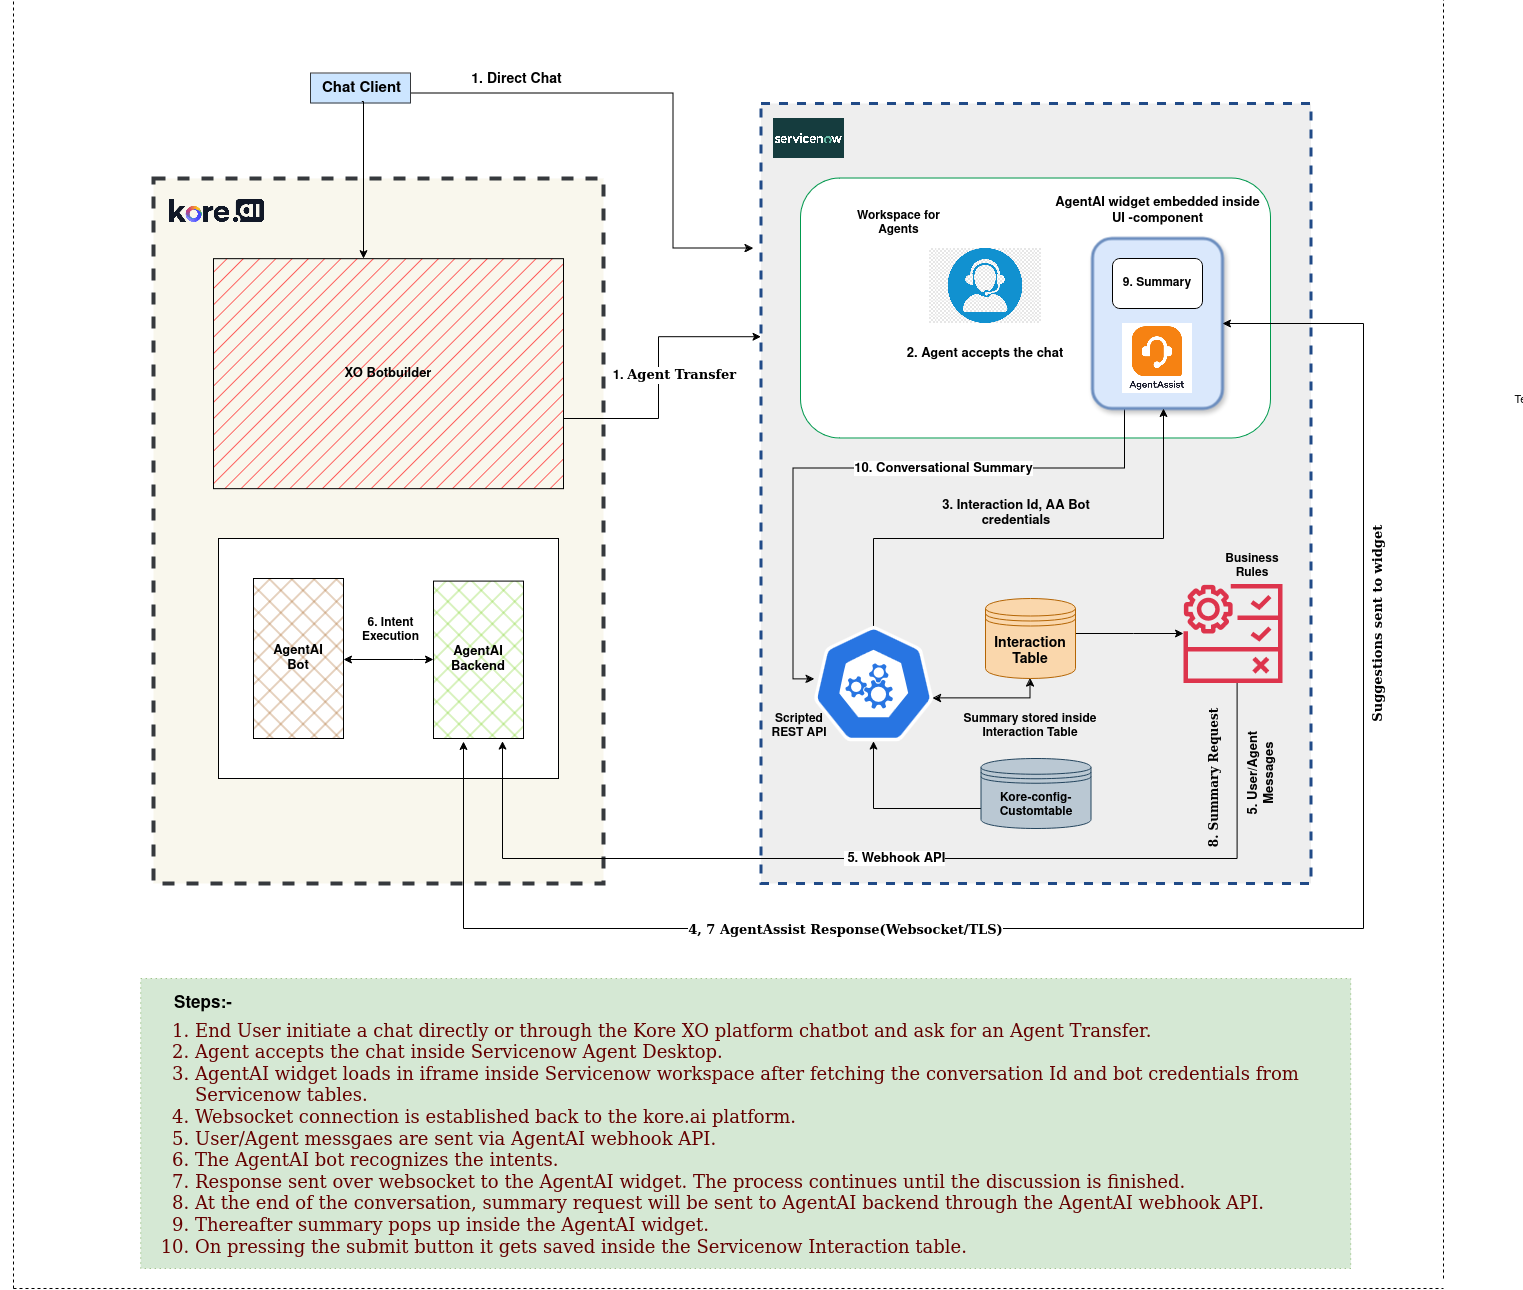
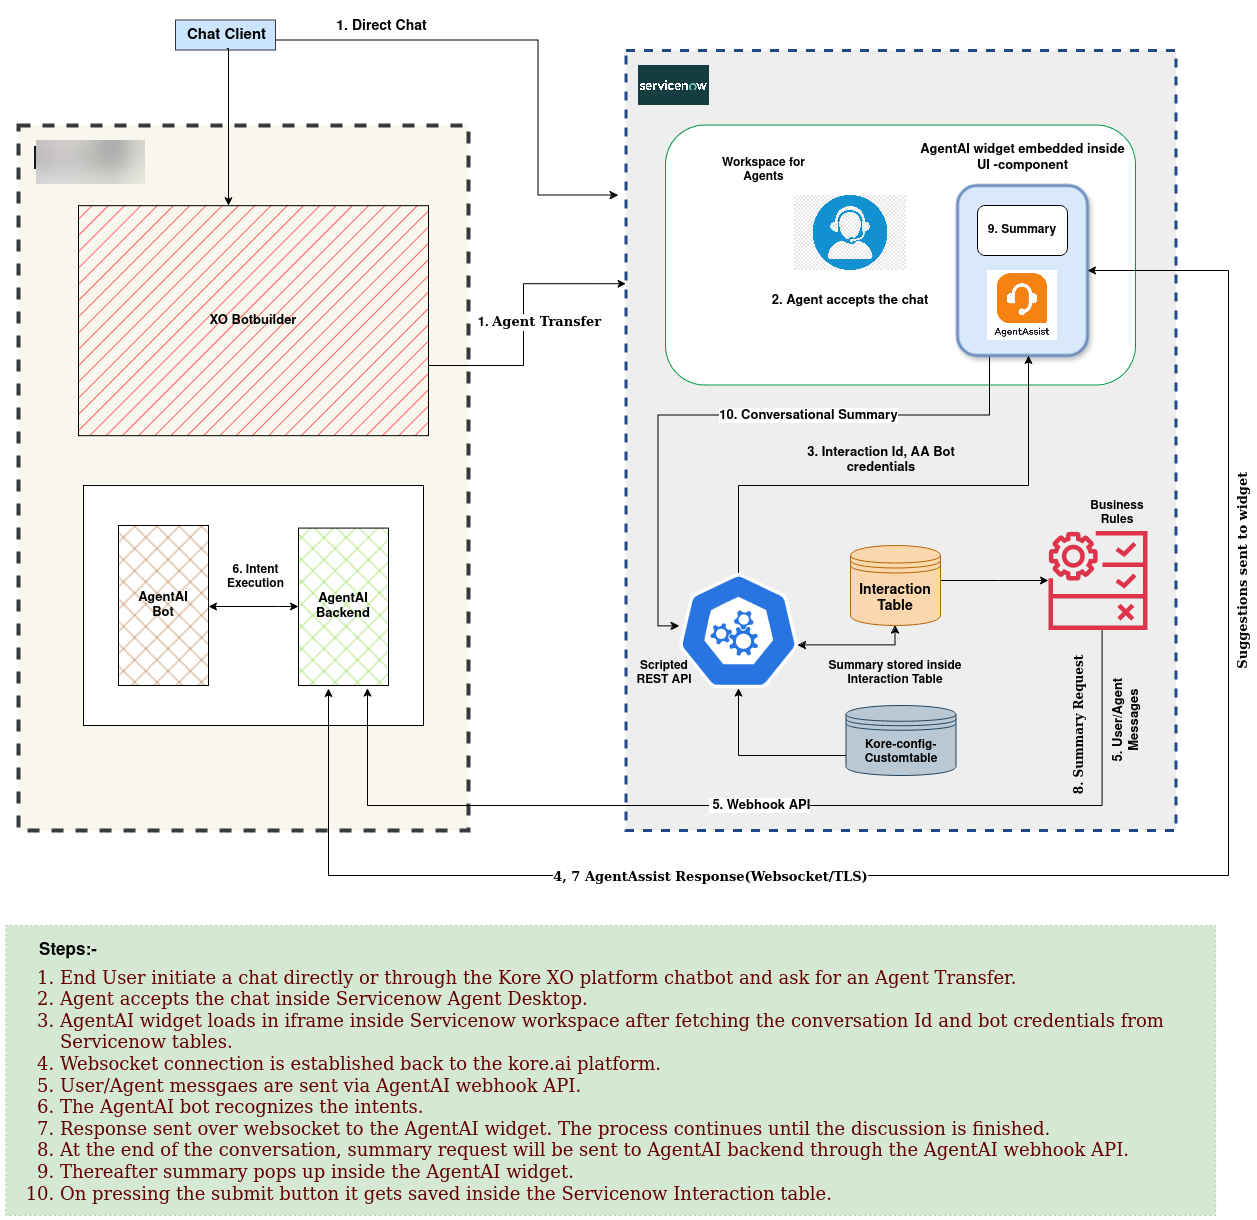
image updates and Kore instances removal

diff --git a/docs/xo/agentai/integration/servicenow/chat-integration-with-servicenow.md b/docs/xo/agentai/integration/servicenow/chat-integration-with-servicenow.md
@@ -1,6 +1,6 @@
 # Agent AI Chat Integration with ServiceNow
 
-This document provides detailed instructions on integrating the Kore.ai Agent AI widget with ServiceNow Desktop for the Chat channel. The integration supports [all features of Agent AI](./../../agent-experience/agent-assist-widget-v3.md){:target=”_blank”}. It also includes an end-of-call summary and Custom Data passing, such as agent name and ID, to the Agent AI widget.
+This document provides detailed instructions on integrating the Agent AI widget with ServiceNow Desktop for the Chat channel. The integration supports [all features of Agent AI](./../../agent-experience/agent-assist-widget-v3.md){:target=”_blank”}. It also includes an end-of-call summary and Custom Data passing, such as agent name and ID, to the Agent AI widget.
 
 ## Prerequisites
 
@@ -15,25 +15,25 @@ This section outlines the essential components, credentials, and permissions req
         * Required AI Agent credentials: Bot ID, Client ID, Client Secret, and Widget URL (Credential Location: Go to **agent ai** > **Flows and Channels** > **Channels** > **Digital** > **Web/Mobile Client** > **JWT App Details**.)
 * Roles and Permissions:
     * ServiceNow: Admin Role
-    * Kore XO Platform (Optional): Required only if you are doing an Agent Transfer from Kore XO Platform to ServiceNow. For more information, refer to [Configuring the ServiceNow Agent – Utah and Higher versions](./../../../app-settings/integrations/agents/servicenow/configuring-the-servicenow-agent-utah-and-vancouver.md){:target=”_blank”}.
+    * XO Platform (Optional): Required only if you are doing an Agent Transfer from XO Platform to ServiceNow. For more information, refer to [Configuring the ServiceNow Agent – Utah and Higher versions](./../../../app-settings/integrations/agents/servicenow/configuring-the-servicenow-agent-utah-and-vancouver.md){:target=”_blank”}.
 
-## Interaction between ServiceNow and Kore.ai Agent AI
+## Interaction between ServiceNow and Agent AI
 
 The following architecture diagram shows the interaction between ServiceNow and Agent AI:
 
 <img src="../images/snow-kore.ai-architecture.png" alt="snow-kore.ai-architecture" title="snow-kore.ai-architecture" style="border: 1px solid gray; zoom:80%;">
 
-## Set Up Kore Agent AI in ServiceNow Sandbox
+## Set Up Agent AI in ServiceNow Sandbox
 
 Setting Up Agent AI chat with ServiceNow consists of the following steps:
 
-1. Set Up Kore Agent AI in ServiceNow Sandbox 
+1. Set Up Agent AI in ServiceNow Sandbox 
     * [Download from the ServiceNow Store (recommended)](#step-1-download-from-the-servicenow-store-recommended), 
     or
     * [Install Using an Update Set](#install-using-an-update-set)
 2. [Set Up Agent AI App Configuration](#step-2-set-up-agent-ai-application-configuration)
 3. [Test the Configuration](#step-3-test-the-integration)
-4. [Kore XO Configuration (Optional)](#step-4-kore-xo-configuration-optional)
+4. [XO Configuration (Optional)](#step-4-xo-configuration-optional)
 5. [Using the Agent AI widget](#step-5-using-the-agent-ai-widget)
 
 ### Step 1: Download from the ServiceNow Store (recommended)
@@ -47,15 +47,15 @@ Setting Up Agent AI chat with ServiceNow consists of the following steps:
 
 ### Install Using an Update Set
 
-1. Ask the Kore representative for the relevant Update Set XML file.
-2. Search in **All** > **filter** navigator as “Retrieved Update Sets,” which is under “System Update Sets”, and open it.
-3. Under **Related Links**, click **Import Update Set from XML**. 
+1. Ask the Support team for the relevant Update Set XML file.
+2. Search in **All** > **filter** navigator as **Retrieved Update Sets**, which is under **System Update Sets**, and open it.
+3. Under **Related Links**, click **Import Update Set from XML**.  
 <img src="../images/import-update-xml.png" alt="import-update-xml" title="import-update-xml" style="border: 1px solid gray; zoom:80%;">
 
-4. Open the update set **Agent AI by kore.ai** (this is the official name for Kore Agent AI).  
+4. Open the update set **Agent AI by kore.ai** (this is the official name for Agent AI).  
 #### Preview Update Set
 
-To preview the update set, click the **Preview Update Set** tab.
+To preview the update set, click the **Preview Update Set** tab.  
 <img src="../images/preview-update-set.png" alt="preview-update-set" title="preview-update-set" style="border: 1px solid gray; zoom:80%;">
 
 #### Commit Update Set
@@ -86,7 +86,7 @@ Application Name: **Agent AI by kore.ai**
 
 This section details the steps to set up the Agent AI app configuration.
 
-#### Add Kore AI Agent configuration in the ServiceNow Custom Table
+#### Add Agent configuration in the ServiceNow Custom Table
 
 1. Change your ServiceNow scope from **Global** to **Agent AI by kore.ai**.
 2. Go to **All** > **Filter navigator**, and search **Kore_configuration**> **kore-config-customtable**.
@@ -95,7 +95,7 @@ This section details the steps to set up the Agent AI app configuration.
 
 3. Click **New.**
 
-4. Add the **Agent AI URL**, **Bot Id**, **Client Id**, **Client Secret** (Refer to [Prerequisite](#prerequisites), and **Table Key** (give the Table Key as **koreai**).
+4. Add the **Agent AI URL**, **Bot Id**, **Client Id**, **Client Secret**. Refer to [Prerequisite](#prerequisites) and **Table Key** (give the Table Key as **koreai**).
 
     !!! note
 
@@ -113,7 +113,7 @@ This section details the steps to set up the Agent AI app configuration.
 
 #### V2-V3 Migration
 
-* For version 2 (v2) of Agent AI "https\://agentassist.kore.ai" (or the domain where the Agent AI is hosted), you should add this to the Agent AI URL.  
+* For version 2 (v2) of Agent AI, **https://agentassist.kore.ai** (or the domain where the Agent AI is hosted), you should add this to the Agent AI URL.  
 Sample v2 URL: https\://<domain-name\>.kore.ai
 
 * For version 3 (v3), you must copy the Agent AI widget URL from the Agent UXO v11 Channel configuration and paste it into the Agent AI URL field. (For XO v11, go to **Flows and Channels** > **Channels** > **Digital** > **Web/Mobile Client** > **JWT App Details**. 
@@ -145,11 +145,11 @@ Sample v2 URL: https\://<domain-name\>.kore.ai
 
         <img src="../images/agent-ai-conversation-summary.png" alt="agent-ai-conversation-summary" title="agent-ai-conversation-summary" style="border: 1px solid gray; zoom:80%;">
 
-### Step 4: Kore XO Configuration (Optional)
+### Step 4: XO Configuration (Optional)
 
-This step is required if the chat client is routed through the Kore XO AI Agent builder, and post agent transfer, it lands into the ServiceNow Agent workspace. For more information, refer to [Configuring the ServiceNow Agent – Utah and Higher versions](../../../app-settings/integrations/agents/servicenow/configuring-the-servicenow-agent-utah-and-vancouver.md){:target=”_blank”}.
+This step is required if the chat client is routed through the XO AI Agent builder, and post agent transfer, it lands into the ServiceNow Agent workspace. For more information, refer to [Configuring the ServiceNow Agent – Utah and Higher versions](../../../app-settings/integrations/agents/servicenow/configuring-the-servicenow-agent-utah-and-vancouver.md){:target=”_blank”}.
 
-For passing the language code dynamically from Kore XO to the Agent AI widget inside ServiceNow, add the following javascript code inside a script node of Kore XO dialog task before the Agent Transfer node of ServiceNow. Without this script node, the language code will not be automatically sent to the Agent AI widget.
+For passing the language code dynamically from XO to the Agent AI widget inside ServiceNow, add the following javascript code inside a script node of XO dialog task before the Agent Transfer node of ServiceNow. Without this script node, the language code will not be automatically sent to the Agent AI widget.
 
 
 ``` json
@@ -169,7 +169,7 @@ agentUtils.setMetaInfo("ServiceNowMetaData", JSON.stringify(metaData));
 
 !!! note
 
-    If a Language Code is sent from Kore XO to ServiceNow, then the Agent AI widget will load according to that language code. So, the XO language code will always take precedence over the language code set inside the ServiceNow custom table in Step 2.
+    If a Language Code is sent from XO to ServiceNow, then the Agent AI widget will load according to that language code. So, the XO language code will always take precedence over the language code set inside the ServiceNow custom table in Step 2.
 
 ### Step 5: Using the Agent AI widget
 
@@ -189,11 +189,11 @@ From the integration perspective, along with all the features and capabilities o
 
 With the multibot solution in ServiceNow, you can configure multiple Agent AI bots which will be rendered when chat comes in different Servicenow queues.
 
-### Set Up Kore Agent AI in ServiceNow
+### Set Up Agent AI in ServiceNow
 
-Obtain the update set .xml file from the Kore representative. Once you successfully commit the update set, follow the below steps:
+Obtain the update set .xml file from the company representative. Once you successfully commit the update set, follow the below steps:
 
-#### Add Kore AI Agent Configuration in the ServiceNow Custom Table
+#### Add Agent AI Configuration in the ServiceNow Custom Table
 
 1. Change your **ServiceNow** scope from **Global** to **Agent AI by kore.ai**.
 2. Go to **All** > **Filter** **navigator**, and search **Kore_configuration** > **kore-config-customtable**. 
@@ -201,7 +201,7 @@ Obtain the update set .xml file from the Kore representative. Once you successfu
 3. Click **New**.
 4. Add the **AgentAssist URL**, **Bot Id**, **Client Id**, **Client Secret**, **Language Code**, and **Queue Name** in the table fields.
     1. **Language Code**: To select a language other than English, select the **language code** from the dropdown list. The default language code is English (En).
-    2. **Queue Name**: To configure the same Kore AI Agent credentials for multiple queues, use comma-separated queue names (for example, customer_queue, sales_queue, service_queue).
+    2. **Queue Name**: To configure the same AI Agent credentials for multiple queues, use comma-separated queue names (for example, customer_queue, sales_queue, service_queue).
 
         !!! note
             **Client Secret** and **AAToken** fields are masked for security reasons. The **AAtoken** field must be empty for the widget to load, it automatically populates at the runtime.

diff --git a/docs/xo/agentai/configuration/conversation-events.md b/docs/xo/agentai/configuration/conversation-events.md
@@ -47,7 +47,7 @@ In this section, you can customize greeting messages at the beginning of the con
 1. Click **CONFIGURATION** > **Conversation events** > **Welcome Events**.
 2. Click to expand the **Configure Greeting Messages** section.
 3. Click the **toggle** button to enable it (if it’s in **Disabled** status).
-4. Select a channel – **Chat**,**Voice**, or **Email**.
+4. Select a channel—**Chat**,**Voice**, or **Email**.
 5. Select a language. The app's language appears by default.
 6. Click **+ Add Message** > **New Messages** to add a new greeting message.  
    <img src="../welcome-events-images/adding-new-greeting-messages-2.png" alt="adding-new-greeting-messages" title="adding-new-greeting-messages" style="border: 1px solid gray; zoom:80%;"> 
@@ -96,10 +96,10 @@ In this section, you can select what to run first between the dialog tasks and g
 
 ## Exit Events 
 
-Exit Events mark the end of a customer interaction. This section lets you configure a dialog task, a conversation summary, or an Agentic app to run automatically when the end-of-conversation event triggers. While multiple options are available, you must select one of the following combinations: 
+Exit Events mark the end of a customer interaction. This section lets you configure a dialog task, conversation summary, or an Agentic app to run automatically when the end-of-conversation event triggers. While multiple options are available, you must select one of the following combinations: 
 
-* Configure End of Conversation Dialog Task + Conversation Summary > OOTB Kore Summarization
-* Conversation Summary + Configure End of Conversation Agentic App 
+* **Configure End of Conversation Dialog Task** + **Conversation Summary (OOTB Kore Summarization)**
+* **Conversation Summary** + **Configure End of Conversation Agentic App**  
 
 ### Configure End of Conversation Dialog Task 
 
@@ -112,16 +112,16 @@ This section lets you select a dialog task to run automatically when an exit eve
 3. Click **Exit Events**.  
    <img src="../welcome-events-images/exit-events-1.png" alt="exit-events" title="exit-events" style="border: 1px solid gray; zoom:80%;">  
 
-4. Select a channel – **Chat**, **Voice**, or **Email**. 
+4. Select a channel—**Chat**, **Voice**, or **Email**. 
 5. Click the toggle to enable **Configure End of conversation Dialog Task**.  
-    1. The following confirmation message appears, if the **Conversation Summary** > **Custom Dialog Task** was enabled:  
+   * The following confirmation message appears, if the **Conversation Summary** > **Custom Dialog Task** was enabled:  
     <img src="../welcome-events-images/disable-custom-summarization-2.png" alt="disable-custom-summarization" title="disable-custom-summarization" style="border: 1px solid gray; zoom:80%;">  
 
-        !!! note
+       !!! note
 
-            For new accounts, the **Conversation Summary** > **OOTB Kore Summarization** is enabled by default.  
+           For new accounts, the **Conversation Summary** > **OOTB Kore Summarization** is enabled by default.  
 
-    2. The following confirmation message appears, if the **Configure End of Conversation Agentic App** was enabled:  
+   * The following confirmation message appears, if the **Configure End of Conversation Agentic App** was enabled:  
     <img src="../welcome-events-images/disable-agentic-exit-events-3.png" alt="disable-agentic-exit-events" title="disable-agentic-exit-events" style="border: 1px solid gray; zoom:80%;">  
 
 6. Click **Yes, Proceed**. 
@@ -139,7 +139,7 @@ This section lets you configure how to autogenerate a conversation summary at th
 1. Sign in to **AI for Service** > **Agent AI**.
 2. Go to **Configurations**> **Conversation Events**.
 3. Click **Exit Events**.
-4. Select a channel – **Chat**, **Voice**, or **Email**.
+4. Select a channel—**Chat**, **Voice**, or **Email**.
 5. Click the toggle to enable **Conversation Summary**.
 6. Select either **OOTB Kore Summarization** or **Custom Dialog Task**.
     1. If you select **Custom Dialog Task**, the following confirmation message appears (if the **Configure End of Conversation Dialog Task was enabled**):  
